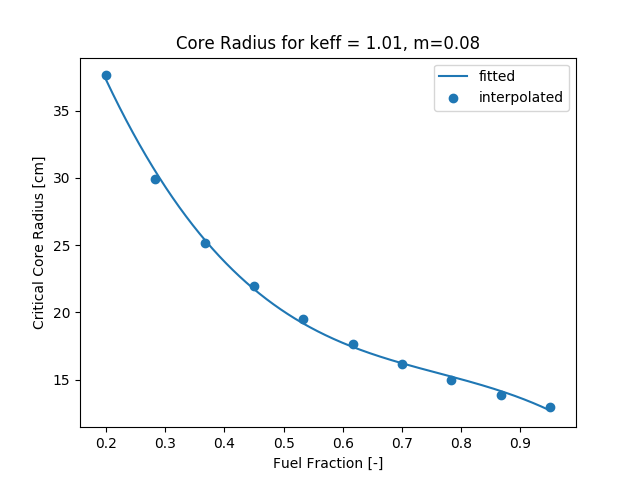
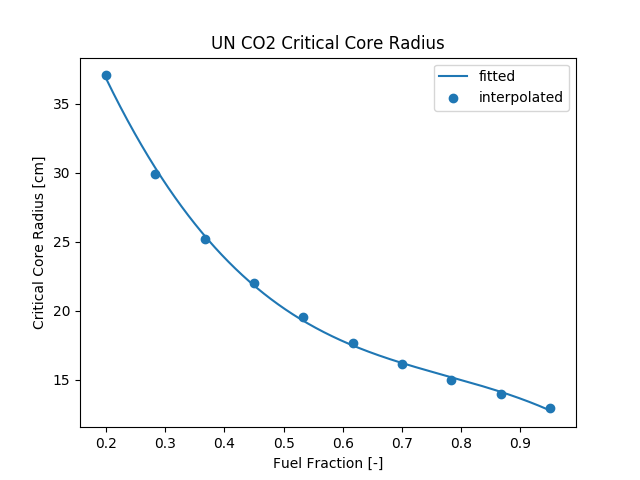
idk, shotgun writing all around

diff --git a/document/chapters/07-verification.tex b/document/chapters/07-verification.tex
@@ -1,4 +1,4 @@
-\section{Reactor Design Verification}
+\chapter{Reactor Design Verification}
     As discussed earlier, the scope of this project was not to develop a mature
 reactor concept. Most of this work focused on modeling the mass of the
 reactor as a function of flow inputs and thermal power requirements. It is
@@ -8,12 +8,70 @@ the chosen reactor design is valid, and with significant engineering effort,
 could be developed into a working nuclear reactor. To this end, more detailed
 neutronics modeling was performed on the chosen reactor design.
 
-\subsection{Homogeneous Approximation}
+\section{Homogeneous Approximation}
+All MCNP modeling was performed based on a homogeneous approximation for core
+materials. The fuel, coolant, and cladding compositions were smeared to form a
+single homogeneous core region. This approximation simplified the geometry which
+helped automate the generation of thousands of input files for parametric
+sweeps. A homogenous fuel mixture was deemed appropriate because there is little
+moderation in the modeled systems. Average neutron energies are higher in the
+absence of a moderator and higher energy neutrons have large mean free paths in
+matter. This increased mean free path reduces the importance of small geometric
+features.
 
-\subsection{Heterogeneous MCNP Model}
+The homogeneous approximation is known to be acceptable from decades of
+experience modeling fast nuclear reactors. Still, it is important to check
+assumptions. The homogeneous approximation was checked by comparing a
+heterogeneous and a homogeneous \keff result for the same \uran mass and core
+geometry. Coolant channels were added to the heterogeneous model and the fuel
+fraction of the homogenous model was adjusted to match the hetergeneous fuel
+fraction. Table \ref{tab:homog_validate_params} shows the parameters used for
+the validation case. The fuel fraction was chosen to match the fuel fraction
+caused by 54 coolant channels in the heterogeneous model.
 
-\subsection{Depletion Results}
+\begin{table}[h]
+  \centering
+  \caption{Parameters for validating homogeneous geometry approximation}
+  \begin{tabular}{ll}
+    \toprule
+     Core Radius                		   & 16 [cm] \\
+     Fuel Enrichment 					   & 93\% $^{235}$U [-]\\
+     Reflector Thickness				   & 15 [cm]\\
+     Coolant Channel Radius                & 0.5 [cm] \\
+     Cladding Thickness                    & 0.031 [cm] \\
+     Fuel Fraction                         & 0.9405 [-]\\
+     Core Aspect Ratio					   & 1 [-] \\
+     Fuel Temp  						   & 300 [K]\\
+     Reactor Physics Code, Data			   & MCNP6.1, ENDF-7.2
+  \end{tabular}
+  \label{tab:homog_validate_params}
+\end{table}
 
-\subsection{Reactivity Coefficients}
+The heterogeneous geometry is shown in Figure \ref{fig:hetero_xy}. Both models
+were run with 290 active cycles and 100,000 histories per cycle to ensure
+solution convergence. Table \ref{tab:homog_validate_results} shows the results
+of the validation. The results are in good agreement.
 
-\subsection{Reactor Control}
+\begin{figure}[h]
+    \centering
+    \includegraphics[width=4in]{../images/hetero_xy.png}
+\caption{Heterogeneous reactor model for validating homogeneous geometry
+approximations}
+\label{fig:hetero_xy}
+\end{figure}
+
+
+\begin{table}[h]
+  \centering
+  \caption{Results of homogeneous geometry validation}
+  \begin{tabular}{lll}
+    \toprule
+     Model                             & \keff & stdv       \\
+    \midrule
+     Homogeneous              		   & 1.13777 & 0.00013  \\
+     Heterogeneous 					   & 1.13159 & 0.00013  \\
+  \end{tabular}
+  \label{tab:homog_validate_results}
+\end{table}
+
+\section{Depletion Verification}

diff --git a/document/chapters/08-conclusion.tex b/document/chapters/08-conclusion.tex
@@ -1,25 +1,48 @@
-\section{Conclusion}
+\chapter{Conclusion}
 The goal of this project was to develop a reactor mass model that did not rely
 on traditional reactor physics tools. The model was designed to be integrated
 into an overall power cycle mass model as part of a mass optimization process. A
 framework was developed to model reactor mass as a submodule of an overall
-power system mass model. This framework considered 
+power system mass model. The modeling framework considered both thermal
+hydraulic and neutronic requirements to optimize a minimum-mass reactor for a
+fixed set of flow inputs. The reactor mass submodel was successfully integrated
+into the power cycle model and was used to optimize the overall mass of the
+power cycle. The resultant reactor was verified using traditional reactor
+physics tools to be a valid design that, with significant time, funding, and
+engineering effort, could be developed into a fully-fledged reactor concept.
 
 \section{Future Work}
+While the project was successful in setting up a workflow for modeling a nuclear
+space reactor, there is much more work to be done. The workflow should be
+applied to different designs to search for better mass performance and more
+modeling should be done to improve the technical readiness of the designs.
+Specifically, reactivity control and safety analysis needs to be incorporated
+into the design process.
 
 \subsection{Design Exploration}
 In order to constrain the reactor optimization space, two fuel types were
-chosen. There are many other fuel types that could be considered. For monolithic
-cores, exploration is simple as developing new critical radius curves and
+chosen. While this limitation was useful for developing the model, 
+there are many other fuel types that could be considered. For monolithic
+cores, this exploration is simple as developing new critical radius curves and
 applying different thermal and physical properties. Switching fuel form would be
 more complicated. Different 1D heat transfer modeling would be required to
-account for a different fuel geometry. The module nature of the reactor model
-code would facilitate this work quite well. It would be interesting to explore
+account for a different fuel geometry. It would be interesting to explore
 TRISO fuel as well as high temperature graphite fuel forms. These fuels are
 capable of operating at extremely high temperatures, potentially increasing
 efficiency of the power cycle.
 
+The reactor mass model and the supporting workflow was designed to support this
+work. The geometry-specific calculations are modular and isolated in the thermal
+hydraulic scripts. The core heat transfer functions could be modified to support
+a new geometry. The neutronics modeling workflow was completely scripted in
+Python, easily facilitating the replication of the workflow on a new geometry.
+
 \subsection{Modeling Work}
 Reactor designs from this modeling workflow yield very rough models and limited
 information about a design. The designs were meant to provide estimates of mass
-to help an overall power cycle mass optimization. 
+to help an overall power cycle mass optimization. Reactivity control and safety
+analysis needs to be performed on any chosen design in order to advance the
+design any further. Reactivity control will be essential to ensure the reactor
+remains subcritical until reaching the mission destination. Once the power
+system has been deployed, reactivity control systems will be essential for
+reactor startup and any unexpected shutdowns during the system lifetime.

diff --git a/document/chapters/09-appendix-a.tex b/document/chapters/09-appendix-a.tex
@@ -16,6 +16,7 @@ fraction.
 
 \section{UW-\codiox}
 This configuration is uranium nitride fuel dispersed in a tungsten matrix. The
+fuel block is clad with Inconel-718. The
 fuel is cooled by supercritical carbon dioxide. A fixed average reflector
 multiplier of 0.211 was used for this configuration. Fig \ref{fig:core_r_un_co2}
 shows the critical core radii as a function of fuel fraction.
@@ -33,11 +34,33 @@ the data. Equation \ref{eq:un_co2_fit} shows the fit equation. This fit
 relationship is used to constrain the core radius in the reactor mass model.
 
 \begin{equation}
-    R_{core} = -85.897x^3 + 196.378x^2 -161.316x + 62.376
+    R_{core} = -85.897x^3 + 196.378x^2 - 161.316x + 62.376
     \label{eq:un_co2_fit}
 \end{equation}
 
 \section{\uox-\water}
+This configuration is monolithic uranium oxide fuel with Inconel-718 cladding.
+The fuel is cooled by supercritical water. A fixed average reflector multiplier
+of 0.001 was used for this configuration. The reflector thickness was not
+allowed to be zero for modeling convenience in MCNP. The optimization found a
+reflector to not be favorable for this configuration. The critical radius data
+and fitted line is shown in Figure \ref{fig:core_r_uo2_h2o}.
+
+\begin{figure}[h]
+    \centering
+    \includegraphics[width=4in]{../images/core_r_uo2_h2o.png}
+\caption{Critical core radius for \uox-\water configuration.}
+\label{fig:core_r_uo2_h2o}
+\end{figure}
+
+Equation \ref{eq:uo2_h2o_fit} was used by the reactor mass model to constrain
+the critical core radius as a function of fuel fraction.
+
+\begin{equation}
+    R_{core} = -67.959x^3 + 156.013x^2 - 130.251x + 53.983
+    \label{eq:uo2_h2o_fit}
+\end{equation}
+
 
 \section{UW-\water}
 
